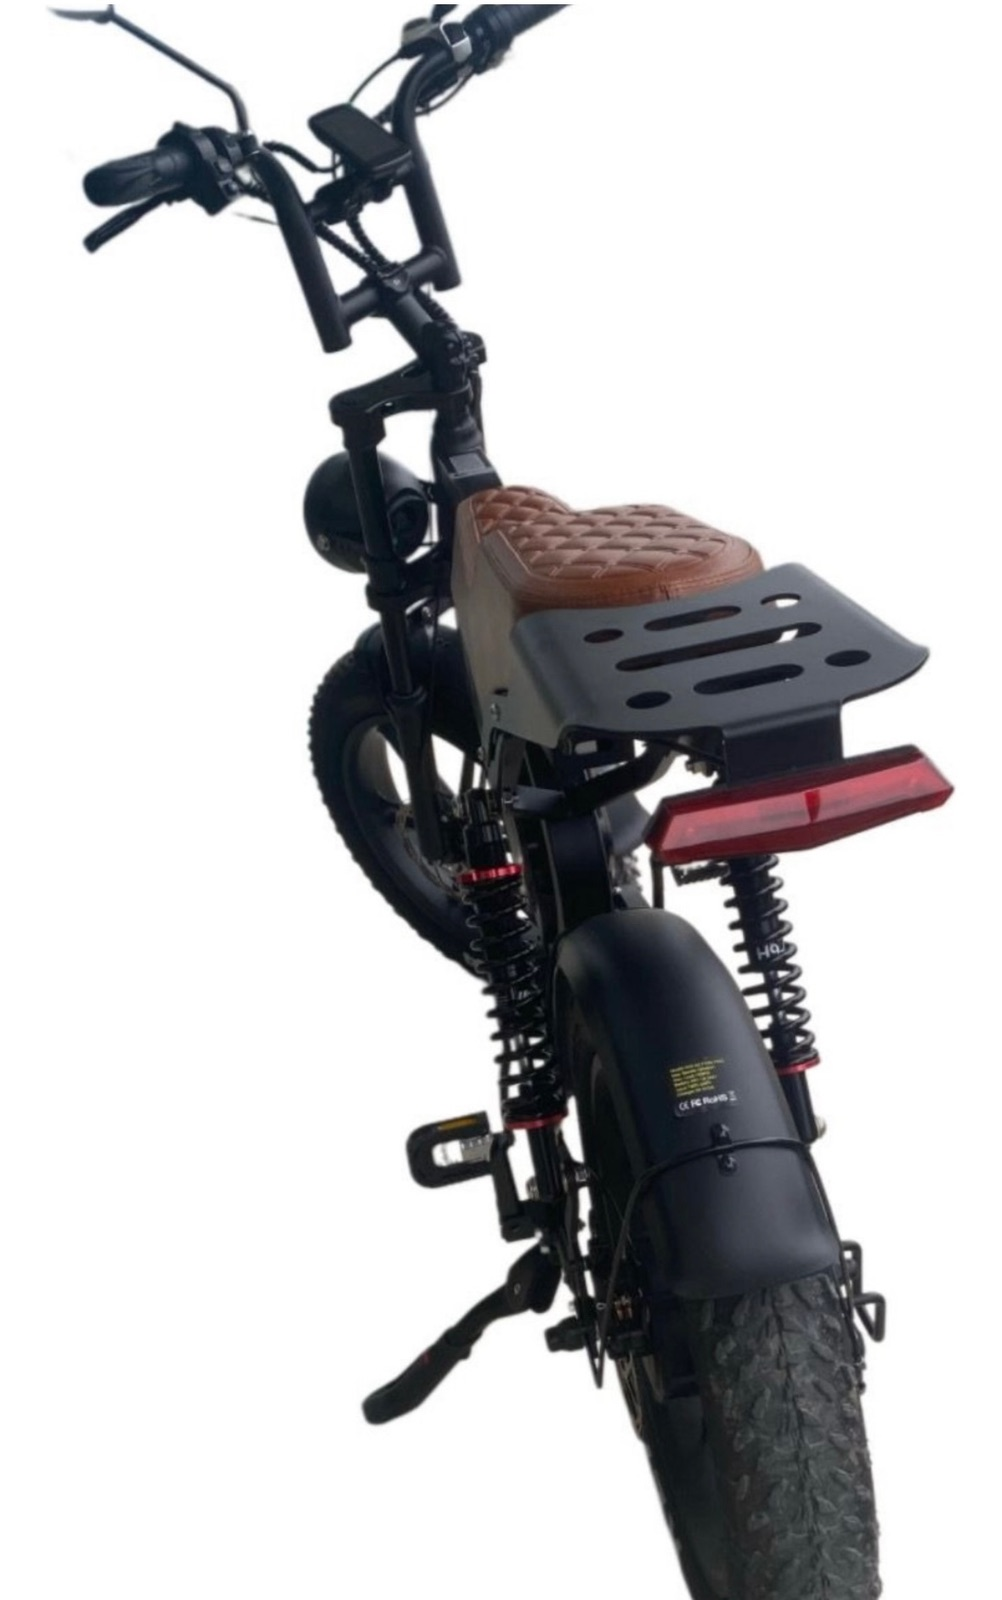
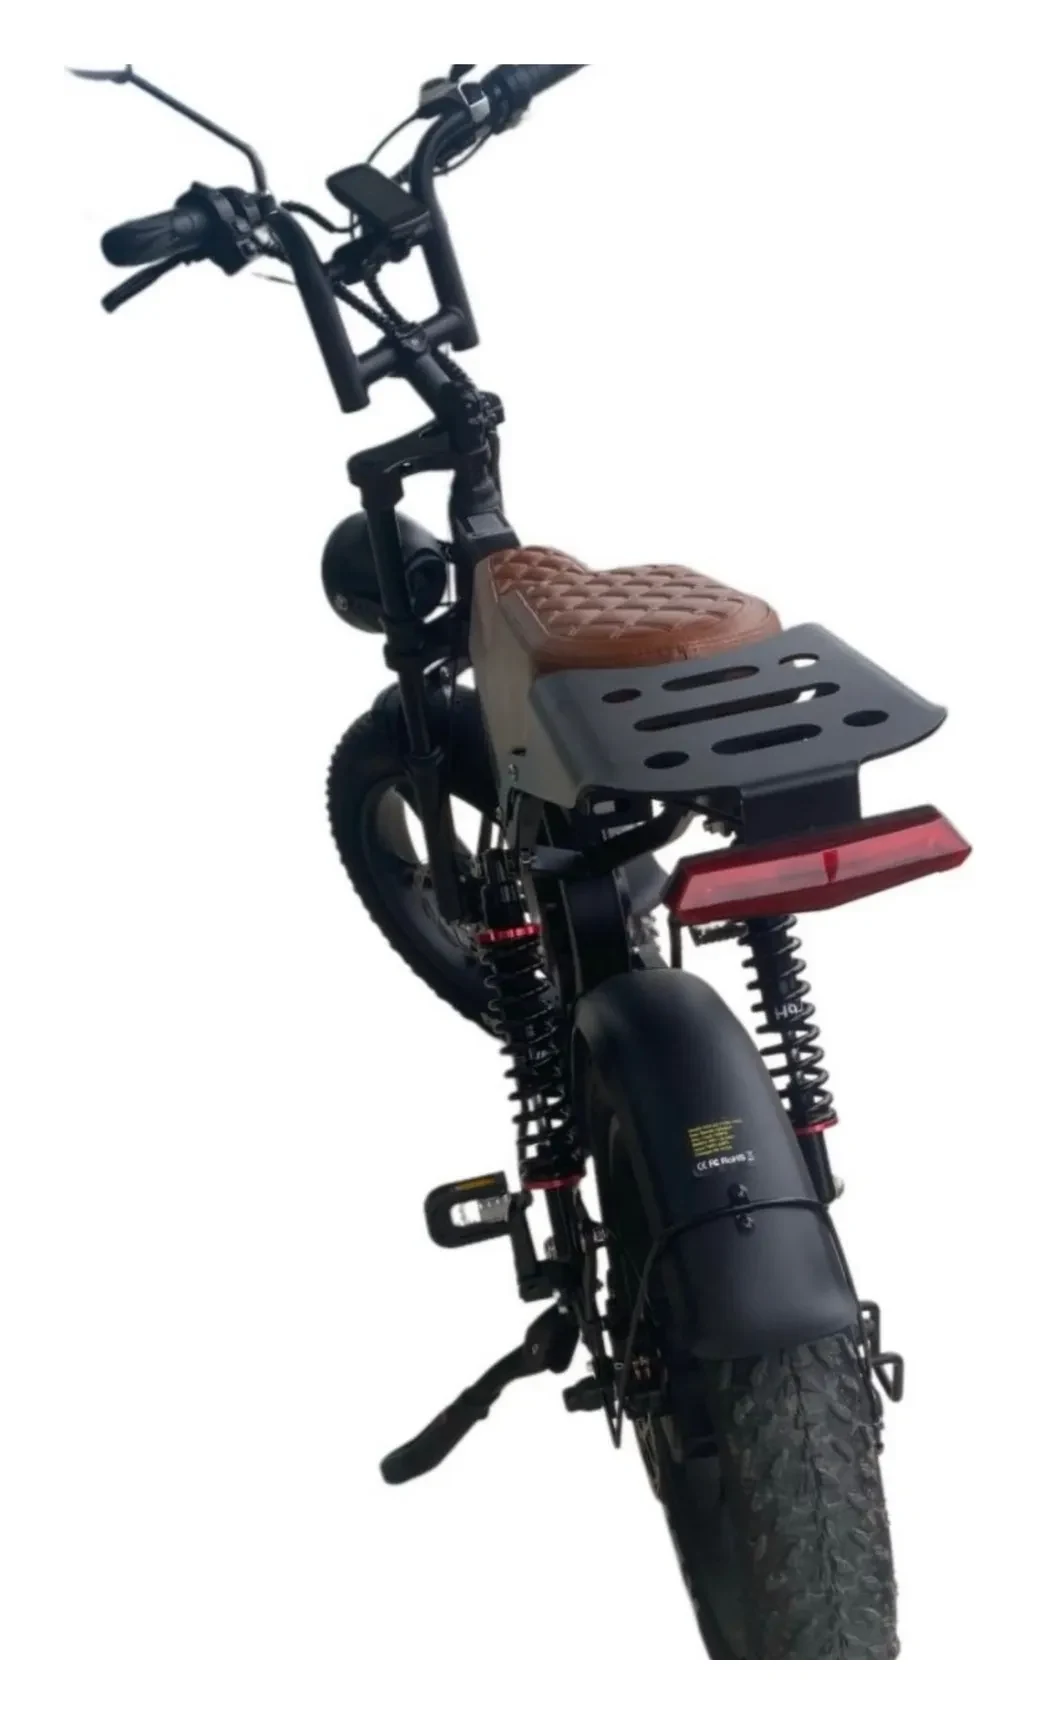
Recorta a moldura branca das fotos de bike e alarga a caixa da galeria
- 12 imagens recortadas (bike preenche o quadro, sem branco em cima e embaixo)
- .p-main com 4:3 no desktop (max 520px) e 16:10 no celular (max 40vh)

Changed region(s): [[0.0619, 0.0, 0.9591, 1.0]]

diff --git a/d50-cross.html b/d50-cross.html
@@ -25,7 +25,7 @@
         .p-grid { display: grid; grid-template-columns: 1.05fr 0.95fr; gap: 56px; align-items: start; margin-top: 28px; }
         .p-gallery { position: sticky; top: 24px; }
         .p-main { background: #ffffff; border: 1px solid #e5e5e5; border-radius: 18px; overflow: hidden; }
-        .p-main img { display: block; width: 100%; aspect-ratio: 4 / 5; object-fit: contain; background: #ffffff; }
+        .p-main img { display: block; width: 100%; aspect-ratio: 4 / 3; max-height: 520px; object-fit: contain; background: #ffffff; }
         .p-thumbs { display: grid; grid-template-columns: repeat(3, 1fr); gap: 12px; margin-top: 12px; }
         .p-thumbs button { padding: 0; border: 1px solid #e5e5e5; border-radius: 12px; background: #ffffff; cursor: pointer; overflow: hidden; }
         .p-thumbs button.is-active { border-color: #1d1d1f; }
@@ -46,7 +46,7 @@
         .p-table th, .p-table td { text-align: left; padding: 14px 0; border-bottom: 1px solid #e5e5e5; }
         .p-table th { width: 42%; color: #6e6e73; font-weight: 500; }
         @media (max-width: 900px) {
-            .p-main img { aspect-ratio: 16 / 10; max-height: 46vh; }
+            .p-main img { aspect-ratio: 16 / 10; max-height: 40vh; }
             .p-thumbs { grid-template-columns: repeat(4, 1fr); gap: 8px; }
             .p-grid { margin-top: 16px; }
             .p-wrap { padding-bottom: 40px; }

diff --git a/v20-mini.html b/v20-mini.html
@@ -20,7 +20,7 @@
         .p-grid { display: grid; grid-template-columns: 1fr 1fr; gap: 48px; align-items: start; margin-top: 24px; }
         .p-gallery { min-width: 0; }
         .p-main { background: #fff; border: 1px solid #e5e5e5; border-radius: 18px; overflow: hidden; }
-        .p-main img { display: block; width: 100%; aspect-ratio: 4 / 5; object-fit: contain; background: #fff; }
+        .p-main img { display: block; width: 100%; aspect-ratio: 4 / 3; max-height: 520px; object-fit: contain; background: #ffffff; }
         .p-thumbs { display: grid; grid-template-columns: repeat(4, 1fr); gap: 10px; margin-top: 10px; }
         .p-thumbs button { padding: 0; border: 1px solid #e5e5e5; border-radius: 10px; background: #fff; cursor: pointer; overflow: hidden; }
         .p-thumbs button.is-active { border-color: #1d1d1f; }
@@ -50,7 +50,7 @@
             .p-main { border-radius: 14px; }
             .p-grid { grid-template-columns: 1fr; gap: 24px; }
             .p-benef { grid-template-columns: 1fr; }
-            .p-main img { aspect-ratio: 16 / 10; max-height: 46vh; }
+            .p-main img { aspect-ratio: 16 / 10; max-height: 40vh; }
             .p-thumbs { grid-template-columns: repeat(4, 1fr); gap: 8px; }
             .p-wrap { padding-bottom: 40px; }
             .p-grid { margin-top: 16px; }

diff --git a/v35.html b/v35.html
@@ -20,7 +20,7 @@
         .p-grid { display: grid; grid-template-columns: 1fr 1fr; gap: 48px; align-items: start; margin-top: 24px; }
         .p-gallery { min-width: 0; }
         .p-main { background: #fff; border: 1px solid #e5e5e5; border-radius: 18px; overflow: hidden; }
-        .p-main img { display: block; width: 100%; aspect-ratio: 4 / 5; object-fit: contain; background: #fff; }
+        .p-main img { display: block; width: 100%; aspect-ratio: 4 / 3; max-height: 520px; object-fit: contain; background: #ffffff; }
         .p-thumbs { display: grid; grid-template-columns: repeat(4, 1fr); gap: 10px; margin-top: 10px; }
         .p-thumbs button { padding: 0; border: 1px solid #e5e5e5; border-radius: 10px; background: #fff; cursor: pointer; overflow: hidden; }
         .p-thumbs button.is-active { border-color: #1d1d1f; }
@@ -50,7 +50,7 @@
             .p-main { border-radius: 14px; }
             .p-grid { grid-template-columns: 1fr; gap: 24px; }
             .p-benef { grid-template-columns: 1fr; }
-            .p-main img { aspect-ratio: 16 / 10; max-height: 46vh; }
+            .p-main img { aspect-ratio: 16 / 10; max-height: 40vh; }
             .p-thumbs { grid-template-columns: repeat(4, 1fr); gap: 8px; }
             .p-wrap { padding-bottom: 40px; }
             .p-grid { margin-top: 16px; }

diff --git a/v40.html b/v40.html
@@ -20,7 +20,7 @@
         .p-grid { display: grid; grid-template-columns: 1fr 1fr; gap: 48px; align-items: start; margin-top: 24px; }
         .p-gallery { min-width: 0; }
         .p-main { background: #fff; border: 1px solid #e5e5e5; border-radius: 18px; overflow: hidden; }
-        .p-main img { display: block; width: 100%; aspect-ratio: 4 / 5; object-fit: contain; background: #fff; }
+        .p-main img { display: block; width: 100%; aspect-ratio: 4 / 3; max-height: 520px; object-fit: contain; background: #ffffff; }
         .p-thumbs { display: grid; grid-template-columns: repeat(4, 1fr); gap: 10px; margin-top: 10px; }
         .p-thumbs button { padding: 0; border: 1px solid #e5e5e5; border-radius: 10px; background: #fff; cursor: pointer; overflow: hidden; }
         .p-thumbs button.is-active { border-color: #1d1d1f; }
@@ -50,7 +50,7 @@
             .p-main { border-radius: 14px; }
             .p-grid { grid-template-columns: 1fr; gap: 24px; }
             .p-benef { grid-template-columns: 1fr; }
-            .p-main img { aspect-ratio: 16 / 10; max-height: 46vh; }
+            .p-main img { aspect-ratio: 16 / 10; max-height: 40vh; }
             .p-thumbs { grid-template-columns: repeat(4, 1fr); gap: 8px; }
             .p-wrap { padding-bottom: 40px; }
             .p-grid { margin-top: 16px; }

diff --git a/v9-max.html b/v9-max.html
@@ -20,7 +20,7 @@
         .p-grid { display: grid; grid-template-columns: 1fr 1fr; gap: 48px; align-items: start; margin-top: 24px; }
         .p-gallery { min-width: 0; }
         .p-main { background: #fff; border: 1px solid #e5e5e5; border-radius: 18px; overflow: hidden; }
-        .p-main img { display: block; width: 100%; aspect-ratio: 4 / 5; object-fit: contain; background: #fff; }
+        .p-main img { display: block; width: 100%; aspect-ratio: 4 / 3; max-height: 520px; object-fit: contain; background: #ffffff; }
         .p-thumbs { display: grid; grid-template-columns: repeat(4, 1fr); gap: 10px; margin-top: 10px; }
         .p-thumbs button { padding: 0; border: 1px solid #e5e5e5; border-radius: 10px; background: #fff; cursor: pointer; overflow: hidden; }
         .p-thumbs button.is-active { border-color: #1d1d1f; }
@@ -50,7 +50,7 @@
             .p-main { border-radius: 14px; }
             .p-grid { grid-template-columns: 1fr; gap: 24px; }
             .p-benef { grid-template-columns: 1fr; }
-            .p-main img { aspect-ratio: 16 / 10; max-height: 46vh; }
+            .p-main img { aspect-ratio: 16 / 10; max-height: 40vh; }
             .p-thumbs { grid-template-columns: repeat(4, 1fr); gap: 8px; }
             .p-wrap { padding-bottom: 40px; }
             .p-grid { margin-top: 16px; }

diff --git a/x30.html b/x30.html
@@ -20,7 +20,7 @@
         .p-grid { display: grid; grid-template-columns: 1fr 1fr; gap: 48px; align-items: start; margin-top: 24px; }
         .p-gallery { min-width: 0; }
         .p-main { background: #fff; border: 1px solid #e5e5e5; border-radius: 18px; overflow: hidden; }
-        .p-main img { display: block; width: 100%; aspect-ratio: 4 / 5; object-fit: contain; background: #fff; }
+        .p-main img { display: block; width: 100%; aspect-ratio: 4 / 3; max-height: 520px; object-fit: contain; background: #ffffff; }
         .p-thumbs { display: grid; grid-template-columns: repeat(4, 1fr); gap: 10px; margin-top: 10px; }
         .p-thumbs button { padding: 0; border: 1px solid #e5e5e5; border-radius: 10px; background: #fff; cursor: pointer; overflow: hidden; }
         .p-thumbs button.is-active { border-color: #1d1d1f; }
@@ -50,7 +50,7 @@
             .p-main { border-radius: 14px; }
             .p-grid { grid-template-columns: 1fr; gap: 24px; }
             .p-benef { grid-template-columns: 1fr; }
-            .p-main img { aspect-ratio: 16 / 10; max-height: 46vh; }
+            .p-main img { aspect-ratio: 16 / 10; max-height: 40vh; }
             .p-thumbs { grid-template-columns: repeat(4, 1fr); gap: 8px; }
             .p-wrap { padding-bottom: 40px; }
             .p-grid { margin-top: 16px; }

diff --git a/x50-pro.html b/x50-pro.html
@@ -20,7 +20,7 @@
         .p-grid { display: grid; grid-template-columns: 1fr 1fr; gap: 48px; align-items: start; margin-top: 24px; }
         .p-gallery { min-width: 0; }
         .p-main { background: #fff; border: 1px solid #e5e5e5; border-radius: 18px; overflow: hidden; }
-        .p-main img { display: block; width: 100%; aspect-ratio: 4 / 5; object-fit: contain; background: #fff; }
+        .p-main img { display: block; width: 100%; aspect-ratio: 4 / 3; max-height: 520px; object-fit: contain; background: #ffffff; }
         .p-thumbs { display: grid; grid-template-columns: repeat(4, 1fr); gap: 10px; margin-top: 10px; }
         .p-thumbs button { padding: 0; border: 1px solid #e5e5e5; border-radius: 10px; background: #fff; cursor: pointer; overflow: hidden; }
         .p-thumbs button.is-active { border-color: #1d1d1f; }
@@ -50,7 +50,7 @@
             .p-main { border-radius: 14px; }
             .p-grid { grid-template-columns: 1fr; gap: 24px; }
             .p-benef { grid-template-columns: 1fr; }
-            .p-main img { aspect-ratio: 16 / 10; max-height: 46vh; }
+            .p-main img { aspect-ratio: 16 / 10; max-height: 40vh; }
             .p-thumbs { grid-template-columns: repeat(4, 1fr); gap: 8px; }
             .p-wrap { padding-bottom: 40px; }
             .p-grid { margin-top: 16px; }
